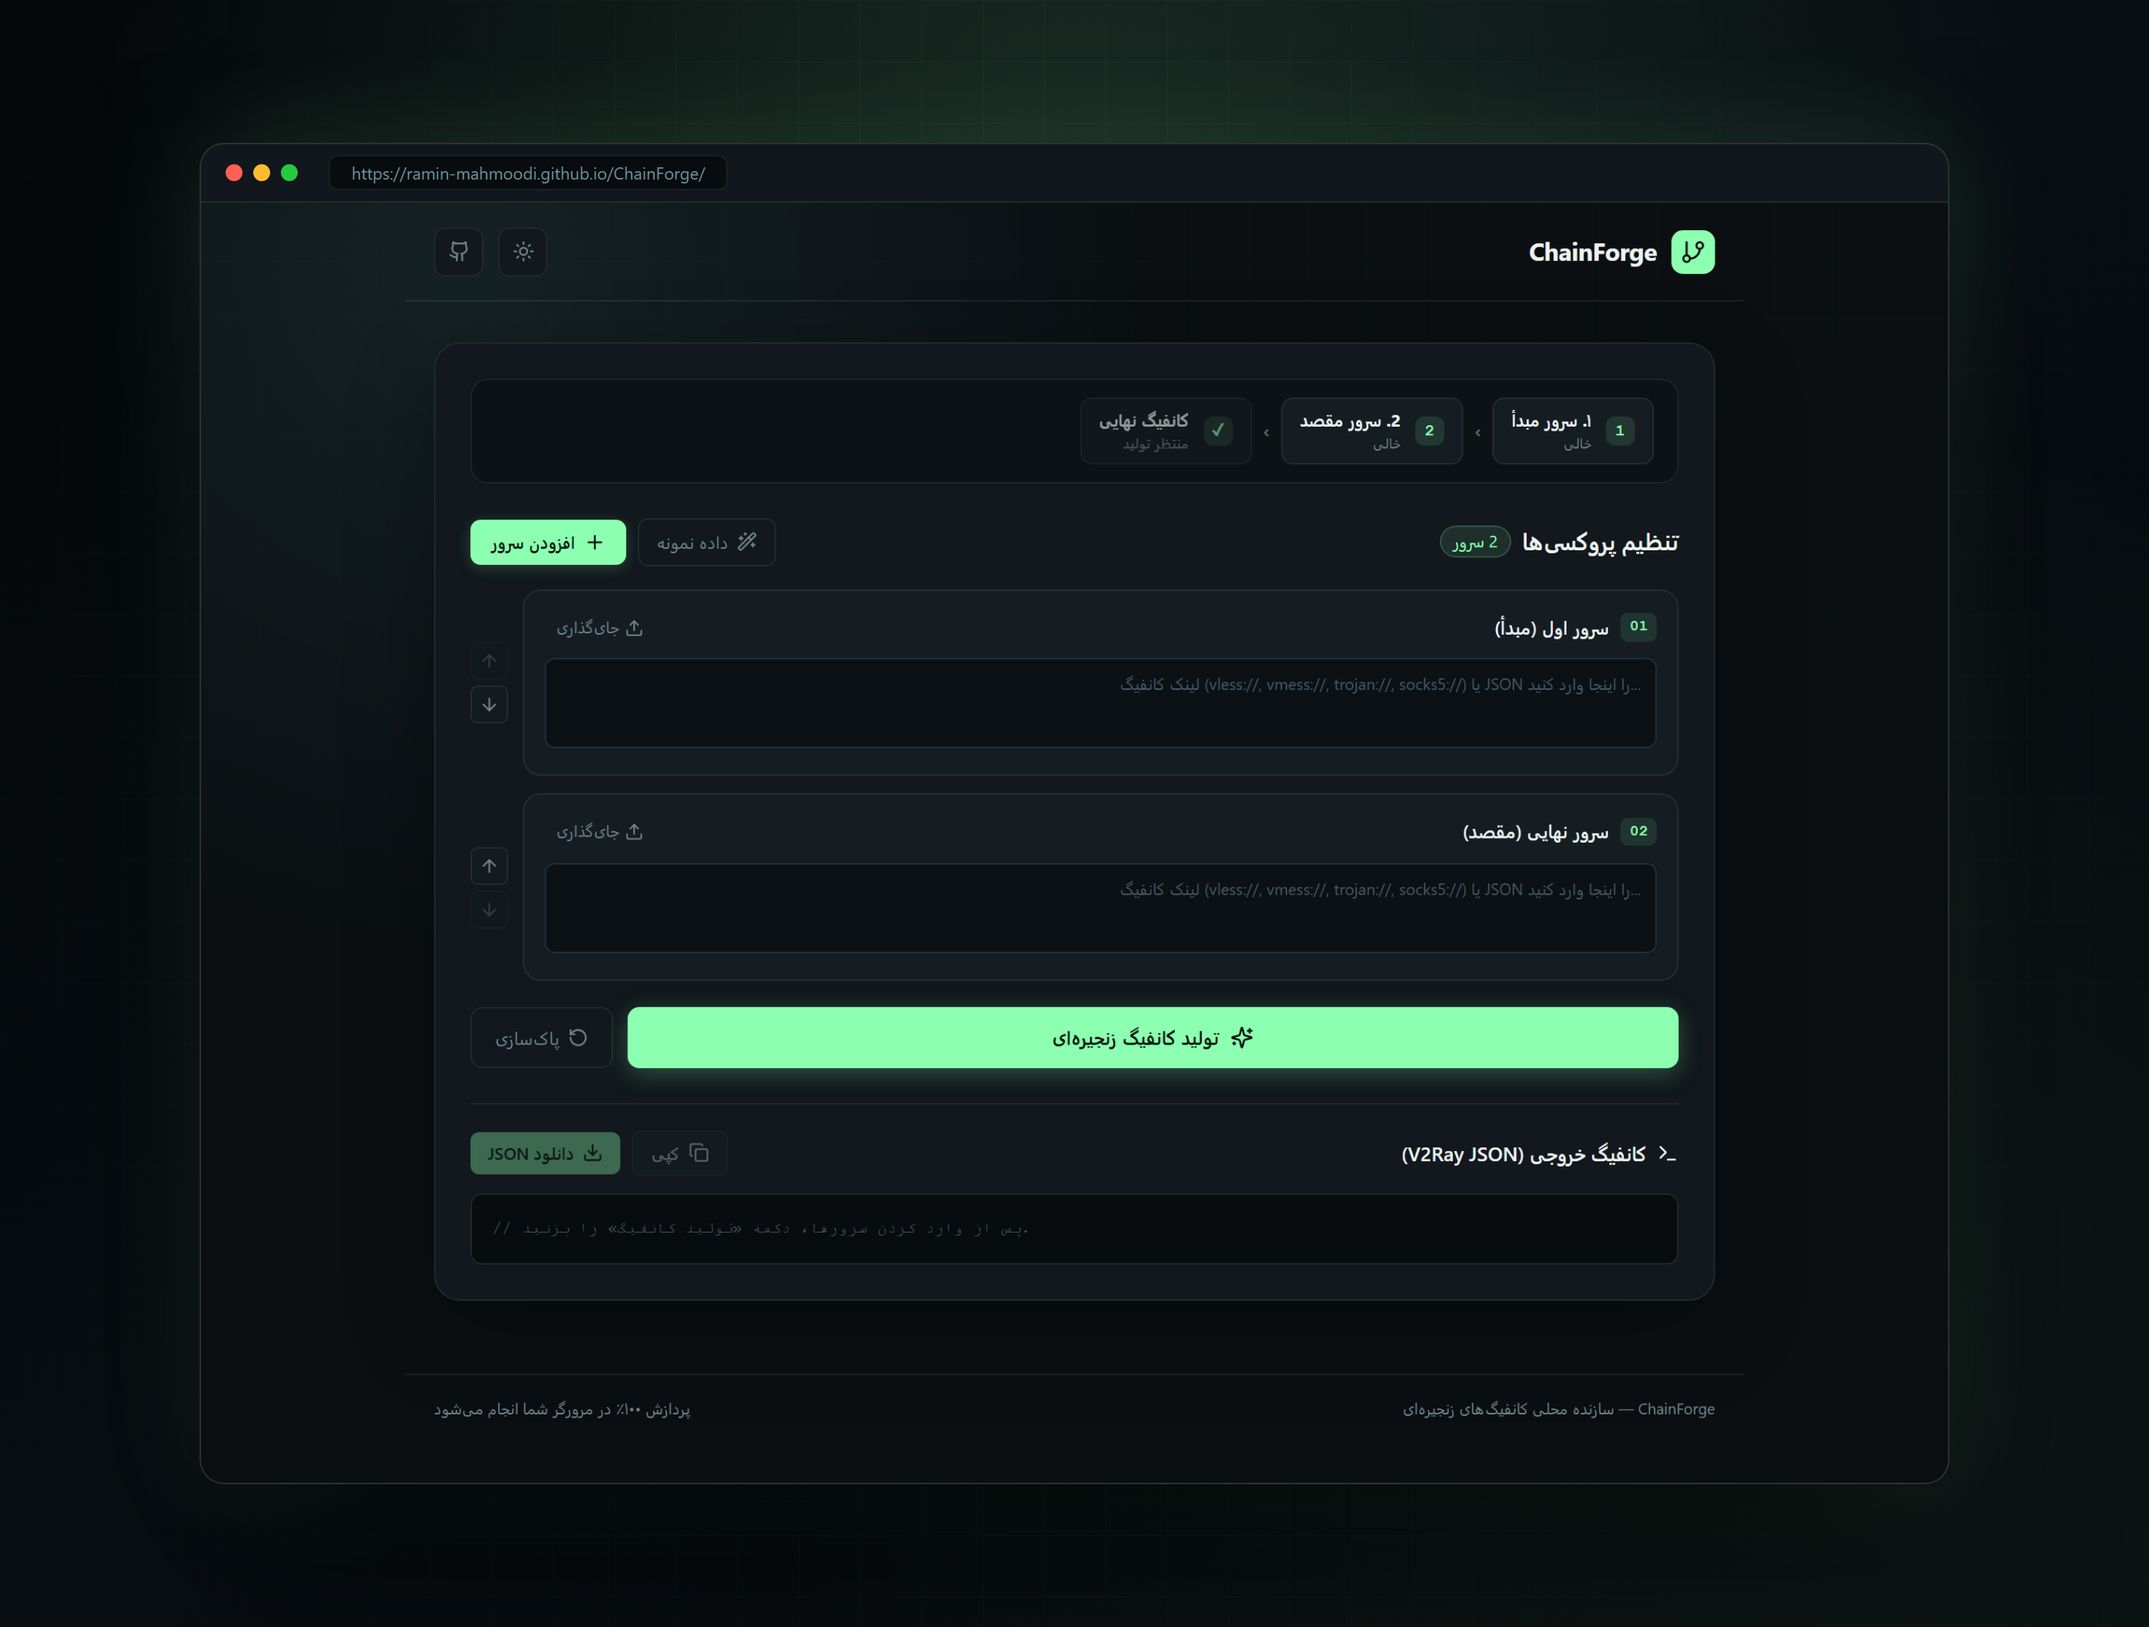
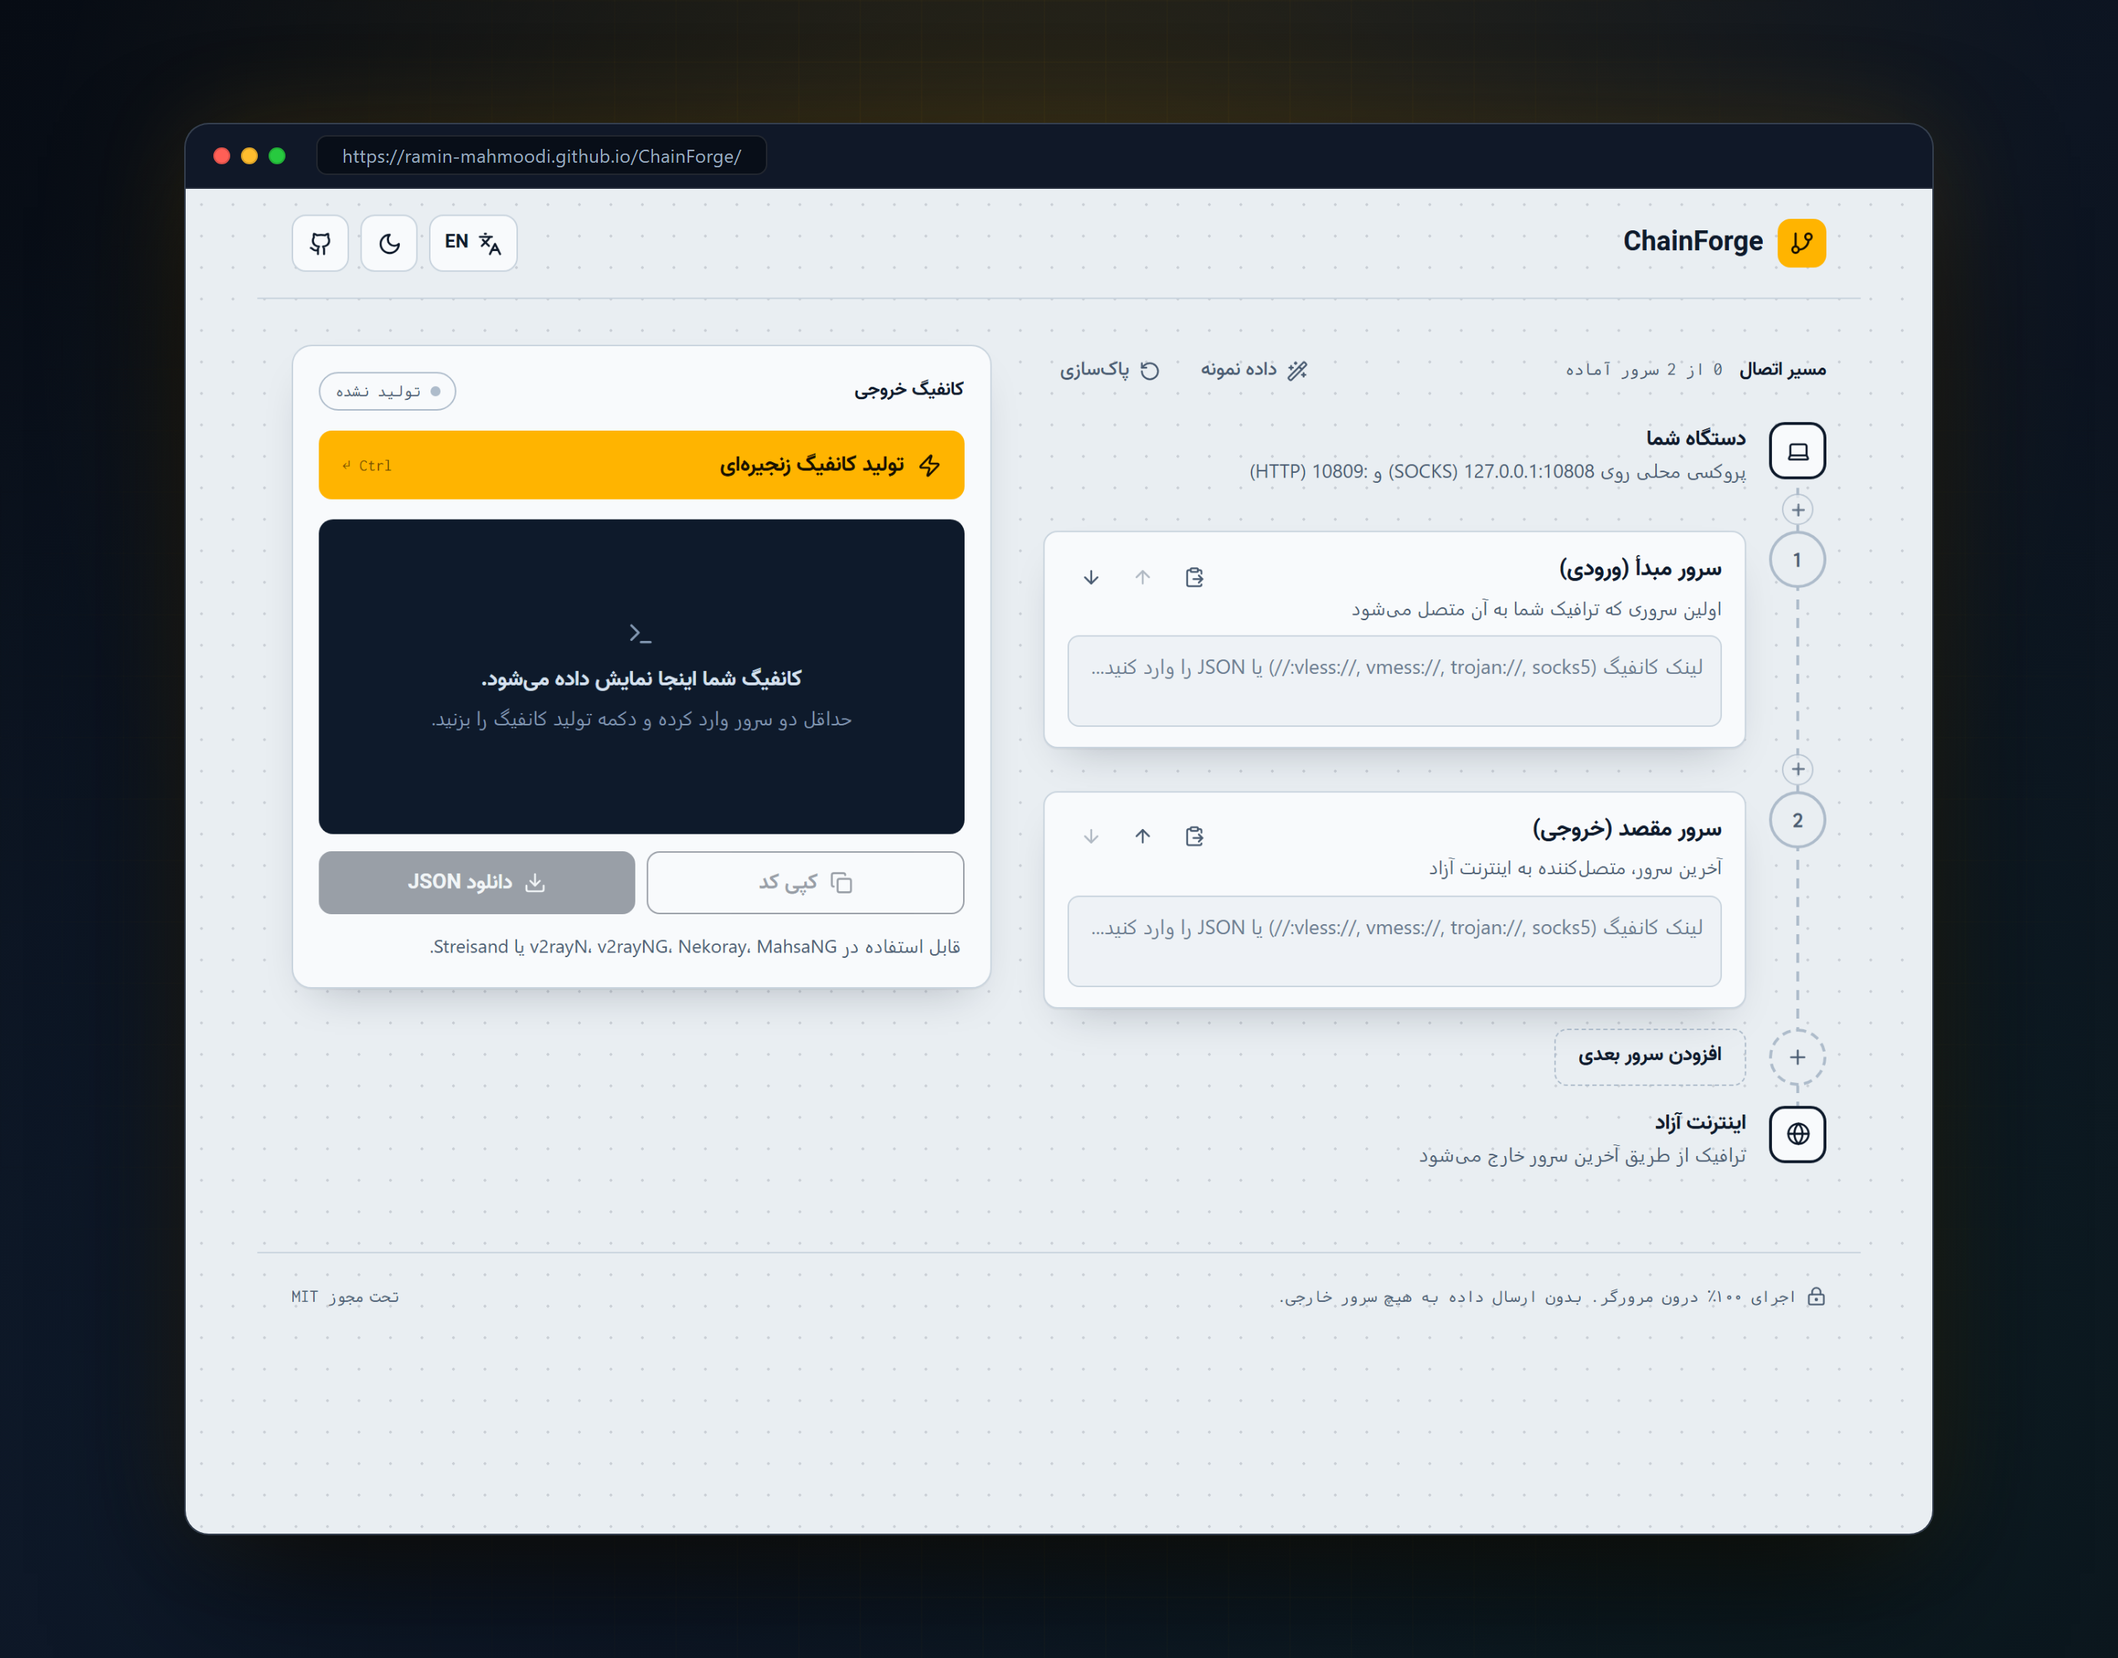
docs: update README.md and refresh Pinterest studio mockup preview

diff --git a/README.md b/README.md
@@ -2,12 +2,12 @@
 
 # ChainForge
 
-**ابزار آنلاین و امن برای ساخت زنجیره اتصال پروکسیهای V2Ray و Xray**
+**ابزار مدرن، امن و کلاینتساید برای ساخت زنجیره اتصال پروکسیهای V2Ray و Xray**
 
 <p>
-  <a href="https://ramin-mahmoodi.github.io/ChainForge/"><img src="https://img.shields.io/badge/Live_Demo-ChainForge-8cffb0?style=for-the-badge&logoColor=black" alt="Live Demo" /></a>
+  <a href="https://ramin-mahmoodi.github.io/ChainForge/"><img src="https://img.shields.io/badge/Live_Demo-ChainForge-ffb400?style=for-the-badge&logoColor=black" alt="Live Demo" /></a>
   <a href="LICENSE"><img src="https://img.shields.io/badge/License-MIT-blue.svg?style=for-the-badge" alt="License: MIT" /></a>
-  <a href="https://github.com/XTLS/Xray-core"><img src="https://img.shields.io/badge/Core-Xray%20%2F%20V2Ray-8cffb0?style=for-the-badge&labelColor=172127&color=8cffb0" alt="Core" /></a>
+  <a href="https://github.com/XTLS/Xray-core"><img src="https://img.shields.io/badge/Core-Xray%20%2F%20V2Ray-ffb400?style=for-the-badge&labelColor=101828&color=ffb400" alt="Core" /></a>
 </p>
 
 **[مشاهده و استفاده آنلاین از برنامه](https://ramin-mahmoodi.github.io/ChainForge/)**
@@ -24,9 +24,9 @@
 
 ## معرفی
 
-پروژه **ChainForge** یک ابزار تحت وب سبک، سریع و کاملاً سمت کاربر (Client-Side) است که امکان اتصال زنجیرهای چندین سرور پروکسی (Proxy Chaining / Multi-Hop Relay) را فراهم کرده و فایل پیکربندی استاندارد `config.json` را برای هسته V2Ray و Xray تولید میکند.
+پروژه **ChainForge** یک ابزار تحت وب مدرن، سبک و کاملاً سمت کاربر (Client-Side) است که امکان اتصال زنجیرهای چندین سرور پروکسی (Proxy Chaining / Multi-Hop Relay) را در بستری امن و بدون نیاز به سرور واسط فراهم میسازد. خروجی این ابزار یک فایل پیکربندی استاندارد `config.json` سازگار با کلیه نرمافزارهای هسته V2Ray و Xray است.
 
-در این ساختار، ترافیک ابتدا به سرور مبدأ ارسال شده و پس از عبور از سرورهای میانی، از طریق سرور مقصد به اینترنت متصل میشود.
+در ساختار زنجیرهای (Chain)، ترافیک شما ابتدا به سرور مبدأ (Entry) ارسال شده و پس از عبور متوالی از سرورهای میانی (Relay)، از طریق سرور مقصد (Exit) به اینترنت آزاد متصل میشود. این فرآیند موجب پنهان ماندن سرور خروجی، دور زدن محدودیتها و ارتقای امنیت و حریم خصوصی ارتباط میگردد.
 
 ---
 
@@ -34,30 +34,38 @@
 
 <ul dir="rtl">
   <li dir="rtl">
-    <strong>امنیت کامل و پردازش محلی (Client-Side):</strong><br />
-    کلیه محاسبات، رمزگشاییها و تولید فایل پیکربندی منحصراً در مرورگر کاربر انجام شده و هیچ دادهای به سرور خارجی ارسال نمیگردد.
+    <strong>امنیت کامل و پردازش ۱۰۰٪ سمت کلاینت (Offline-Ready & Privacy-First):</strong><br />
+    تمام پردازشها، رمزگشاییهای Base64 و تولید فایل پیکربندی به صورت کامل در مرورگر شما انجام میشود و هیچ اطلاعات یا لینکی به سرورهای خارجی ارسال نخواهد شد.
   </li>
   <li dir="rtl">
-    <strong>تشخیص خودکار پروتکل:</strong><br />
-    شناسایی آنی نوع پروتکل و استخراج خودکار پارامترها به محض درج لینک.
+    <strong>پشتیبانی دو زبانه (فارسی و انگلیسی):</strong><br />
+    امکان جابجایی بین زبان فارسی (با چیدمان راستچین RTL) و انگلیسی (چپچین LTR) با یک کلیک به همراه ذخیرهسازی خودکار ترجیحات زبان.
   </li>
   <li dir="rtl">
-    <strong>پشتیبانی از پروتکلهای ارتباطی:</strong>
+    <strong>فونتهای اختصاصی محلی (Self-Hosted Fonts):</strong><br />
+    بهکارگیری قلم <strong>وزیر (Vazir)</strong> برای بدنه و متون فارسی و قلم مونواسپیس <strong>وزیر کد (Vazir Code)</strong> برای بخشهای فنی، وضعیتها و شمارندهها به صورت محلی و خودمیزبان بدون وابستگی به سرورهای بیرونی.
+  </li>
+  <li dir="rtl">
+    <strong>طراحی Route-Rail مدرن و مینیمال:</strong><br />
+    نمایش شفاف و گامبهگام مسیر عبور ترافیک با امکان افزودن سرور، درج در میانه مسیر، جابجایی ترتیبی و پاکسازی سریع.
+  </li>
+  <li dir="rtl">
+    <strong>تشخیص خودکار و هوشمند پروتکلها:</strong>
     <ul dir="rtl">
-      <li dir="rtl"><strong>پروتکل VLESS:</strong> با پشتیبانی کامل از REALITY، Vision (XTLS)، xHTTP (SplitHTTP)، WebSocket و gRPC</li>
-      <li dir="rtl"><strong>پروتکل VMess:</strong> رمزگشایی خودکار رشتههای Base64 و استخراج تنظیمات شبکه</li>
-      <li dir="rtl"><strong>پروتکل Trojan:</strong> همراه با لایههای امنیتی TLS، REALITY و xHTTP</li>
-      <li dir="rtl"><strong>پروکسیهای SOCKS5 و HTTP:</strong> پشتیبانی از پروکسیهای محلی و سرورهای رله</li>
-      <li dir="rtl"><strong>ساختارهای JSON و Base64:</strong> امکان وارد کردن مستقیم بلوکهای پیکربندی یا رشتههای کدگذاری شده</li>
+      <li dir="rtl"><strong>پروتکل VLESS:</strong> با پشتیبانی جامع از REALITY، Vision (XTLS)، xHTTP (SplitHTTP)، WebSocket و gRPC</li>
+      <li dir="rtl"><strong>پروتکل VMess:</strong> استخراج خودکار متادیتا و رمزگشایی کدهای Base64</li>
+      <li dir="rtl"><strong>پروتکل Trojan:</strong> سازگار با لایههای امنیتی TLS، REALITY و شبکههای مختلف</li>
+      <li dir="rtl"><strong>پروکسیهای SOCKS5 و HTTP:</strong> مناسب اتصال به پروکسیهای محلی و سرورهای واسط</li>
+      <li dir="rtl"><strong>پیکربندی خام JSON:</strong> امکان وارد کردن مستقیم بلوکهای Outbound ساختار JSON</li>
     </ul>
   </li>
   <li dir="rtl">
-    <strong>طراحی کاربردی و بهینه:</strong>
+    <strong>امکانات رفاهی و تجربه کاربری:</strong>
     <ul dir="rtl">
-      <li dir="rtl">رابط کاربری ساده، سبک و بدون پیچیدگی</li>
-      <li dir="rtl">قابلیت تغییر تم به حالت تاریک و روشن</li>
-      <li dir="rtl">کلید میانبر کیبورد (Ctrl + Enter) جهت ساخت سریع</li>
-      <li dir="rtl">امکان کپی مستقیم و دانلود فایل با فرمت JSON</li>
+      <li dir="rtl">پشتیبانی از تم روشن و تاریک (Dark / Light) همراه با ذخیره در حافظه مرورگر</li>
+      <li dir="rtl">کلید میانبر صفحهکلید (<kbd>Ctrl + Enter</kbd>) برای تولید سریع کانفیگ</li>
+      <li dir="rtl">کپی مستقیم با یک کلیک و دانلود فایل کانفیگ <code>.json</code></li>
+      <li dir="rtl">بارگذاری دادههای نمونه تستی جهت تست و راهاندازی سریع</li>
     </ul>
   </li>
 </ul>
@@ -67,9 +75,9 @@
 ## راهنمای استفاده
 
 <ol dir="rtl">
-  <li dir="rtl"><strong>ورود اطلاعات سرورها:</strong> لینک سرور مبدأ و سرور مقصد را در بخشهای مربوطه وارد نمایید (امکان استفاده از دکمه «جایگذاری» وجود دارد).</li>
-  <li dir="rtl"><strong>تولید پیکربندی:</strong> بر روی دکمه «تولید کانفیگ زنجیرهای» کلیک کنید یا کلیدهای ترکیبی Ctrl + Enter را فشار دهید.</li>
-  <li dir="rtl"><strong>استفاده در کلاینت:</strong> فایل یا متن JSON تولید شده را دریافت کرده و در نرمافزارهای سازگار با V2Ray/Xray (نظیر v2rayN، v2rayNG، Nekoray، MahsaNG، Streisand و سایر برنامهها) بارگذاری نمایید.</li>
+  <li dir="rtl"><strong>ورود اطلاعات سرورها:</strong> لینک سرور مبدأ (ورودی) و سرور مقصد (خروجی) را وارد کنید (میتوانید از دکمه «جایگذاری» استفاده نمایید یا سرورهای میانی بیشتری اضافه کنید).</li>
+  <li dir="rtl"><strong>تولید کانفیگ:</strong> بر روی دکمه «تولید کانفیگ زنجیرهای» کلیک کنید یا کلیدهای ترکیبی <kbd>Ctrl + Enter</kbd> را فشار دهید.</li>
+  <li dir="rtl"><strong>بارگذاری در نرمافزار کلاینت:</strong> فایل JSON تولید شده را دانلود کرده یا متن آن را کپی نمایید و در نرمافزارهای سازگار (مانند v2rayN، v2rayNG، Nekoray، MahsaNG، Streisand و غیره) اضافه کنید.</li>
 </ol>
 
 ---
